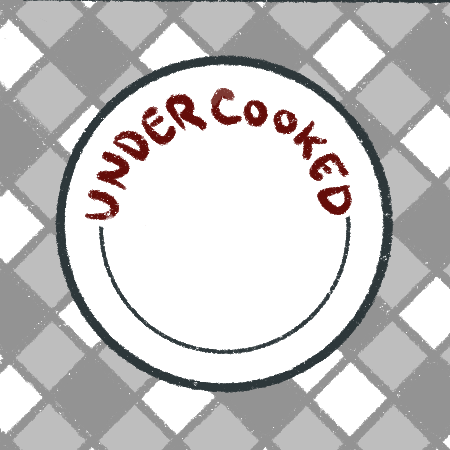
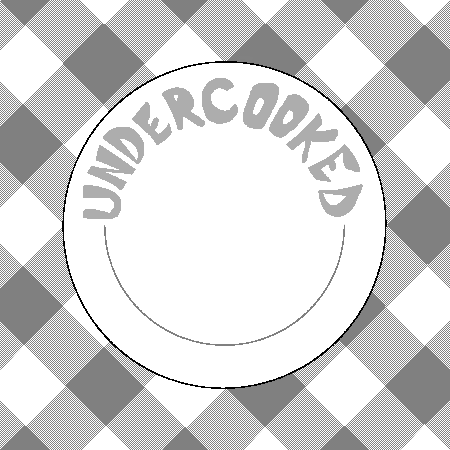
renewed assets

diff --git a/sketch.js b/sketch.js
@@ -8,15 +8,15 @@ let menuButton;
 let exitMenuButton;
 let returnToTitleButton;
 let selectFoodButton;
-let returnToHomePageButton;
+let restartTimerHomeButton;
 
-// let titleBeginButton, startTimerButton,increaseTimerButton, decreaseTimerButton, cancelTimerButton, menuButton, exitMenuButton, returnToTitleButton;
-
-// Timer Variables
-let timeSecond = 600; // Initial countdown time in seconds
-let lastTimeSecond = 600; // Store the last stated timer value
-let countdownActive = false; // Flag to track if the countdown is active
-let countdown; // Variable to store the interval ID
+// ----------------------------------- Timer Variables
+let timeSecond = 600;
+let lastTimeSecond = 600;
+let countdownActive = false;
+const interval = 1000;
+let cancelCountdown = false;
+let targetTime;
 
 // ----------------------------------- Pages
 let titlePage = true;
@@ -25,6 +25,13 @@ let menuPage = false;
 let runningPage = false;
 let endPage = false;
 let foodSelectionPage = false;
+
+// ----------------------------------- Background Image
+let titlePageBG;
+
+function preload() {
+  titlePageBG = loadImage('Media/titlePageBG.png');
+}
 
 // ----------------------------------- Setup
 
@@ -40,17 +47,22 @@ function setup() {
 // ----------------------------------- Draw
 
 function draw() {
-  background(220);
+  if (titlePage) {
+    background(220); // Clear the canvas with a default background color
+    image(titlePageBG, width / 2, height / 2); // Draw the image at the center of the canvas
+  } else {
+    background(220); // Default background for other pages
+  }
 
   if (homePage) {
-    displayTime(lastTimeSecond); // Display the last stated timer value on the home page
+    displayTime(lastTimeSecond);
   }
 
   if (runningPage) {
     if (!countdownActive) {
-      startCountdown(); // Start the countdown when entering the runningPage
+      startCountdown();
     }
-    displayTime(timeSecond); // Display the timer on the canvas
+    displayTime();
   }
 
   pageChanger();
@@ -59,11 +71,10 @@ function draw() {
 // ----------------------------------- Button Functions
 
 function createButtons() {
-
   // BEGIN
   titleBeginButton = createImg('Media/beginButtonImage.png', 'BeginButton');
-  titleBeginButton.position(100, 100);
-  titleBeginButton.size(250, 250);
+  titleBeginButton.position(185, 230);
+  titleBeginButton.size(75, 27);
   titleBeginButton.mouseClicked(() => {
     console.log("entered home page");
     titlePage = false;
@@ -71,24 +82,29 @@ function createButtons() {
   });
 
   // START TIMER
-  startTimerButton = createImg('Media/toast.png', 'StartTimer');
-  startTimerButton.position(160, 300);
-  startTimerButton.size(130, 130);
+  startTimerButton = createImg('Media/startTimerImage.png', 'StartTimer');
+  startTimerButton.position(190, 340);
+  startTimerButton.size(78, 27);
   startTimerButton.mouseClicked(() => {
     runningPage = true;
     homePage = false;
     timeSecond = lastTimeSecond; // Reset the timer to the last stated value
     countdownActive = false; // Reset the countdown flag
+    startCountdown(); // Start the countdown
     console.log(`Timer started with ${timeSecond} seconds`);
   });
 
   // DECREASE TIMER
-  decreaseTimerButton = createImg('Media/cereal.png', 'decreaseTimer');
-  decreaseTimerButton.position(105, 265);
-  decreaseTimerButton.size(70, 70);
+  decreaseTimerButton = createImg('Media/decreaseImage.png', 'decreaseTimer');
+  decreaseTimerButton.position(140, 287);
+  decreaseTimerButton.size(24, 24);
   decreaseTimerButton.mouseClicked(() => {
-    if (lastTimeSecond > 300) { // Ensure the timer doesn't go below 5 minutes
+    console.log("Decrease button clicked");
+    if (lastTimeSecond > 300) {
       lastTimeSecond = Math.max(300, lastTimeSecond - 5 * 60); // Decrease by 5 minutes
+      if (!countdownActive) {
+        timeSecond = lastTimeSecond; // Synchronize timeSecond if the countdown is not active
+      }
       console.log(`Timer decreased: ${lastTimeSecond} seconds`);
     } else {
       console.log("Timer cannot go below 5:00");
@@ -96,9 +112,9 @@ function createButtons() {
   });
 
   // INCREASE TIMER
-  increaseTimerButton = createImg('Media/cereal.png', 'increaseTimer');
-  increaseTimerButton.position(280, 265);
-  increaseTimerButton.size(70, 70);
+  increaseTimerButton = createImg('Media/increaseImage.png', 'increaseTimer');
+  increaseTimerButton.position(285, 287);
+  increaseTimerButton.size(24, 24);
   increaseTimerButton.mouseClicked(() => {
     if (!countdownActive) {
       timeSecond += 5 * 60; // Increase by 5 minutes
@@ -108,28 +124,31 @@ function createButtons() {
   });
 
   // CANCEL TIMER
-  cancelTimerButton = createImg('Media/cereal.png', 'cancelTimer');
-  cancelTimerButton.position(160, 300);
-  cancelTimerButton.size(130, 130);
+  cancelTimerButton = createImg('Media/cancelTimerImage.png', 'cancelTimer');
+  cancelTimerButton.position(190, 320);
+  cancelTimerButton.size(70, 50);
   cancelTimerButton.mouseClicked(() => {
     runningPage = false;
     homePage = true;
-    console.log("timer cancelled");
+    countdownActive = false; // Reset the countdown flag
+    cancelCountdown = true; // Stop the countdown loop
+    timeSecond = lastTimeSecond; // Reset the timer to the last stated value
+    console.log("Timer cancelled and reset");
   });
 
   // MENU BUTTONS
-  menuButton = createImg('Media/cereal.png', 'menu');
-  menuButton.position(10, 10);
-  menuButton.size(70, 70);
+  menuButton = createImg('Media/menuEnterButton.png', 'menu');
+  menuButton.position(15, 15);
+  menuButton.size(24, 24);
   menuButton.mouseClicked(() => {
     console.log("entered menu page");
     homePage = false;
     menuPage = true;
   });
 
-  exitMenuButton = createImg('Media/cereal.png', 'exitMenu');
-  exitMenuButton.position(10, 10);
-  exitMenuButton.size(70, 70);
+  exitMenuButton = createImg('Media/menuExitButton.png', 'exitMenu');
+  exitMenuButton.position(15, 15);
+  exitMenuButton.size(24, 24);
   exitMenuButton.mouseClicked(() => {
     console.log("exited menu page");
     homePage = true;
@@ -137,34 +156,33 @@ function createButtons() {
   });
 
   // MENU OPTION BUTTONS
-  returnToTitleButton = createImg('Media/toast.png', 'returnToTitle');
-  returnToTitleButton.position(100, 20);
-  returnToTitleButton.size(70, 70);
+  returnToTitleButton = createImg('Media/menusHome.png', 'returnToTitle');
+  returnToTitleButton.position(100, 40);
+  returnToTitleButton.size(70, 40);
   returnToTitleButton.mouseClicked(() => {
     console.log("entered title page");
     titlePage = true;
     menuPage = false;
   });
 
-  selectFoodButton = createImg('Media/toast.png', 'selectFood');
+  selectFoodButton = createImg('Media/menusFoods.png', 'selectFood');
   selectFoodButton.position(100, 90);
-  selectFoodButton.size(70, 70);
+  selectFoodButton.size(70, 40);
   selectFoodButton.mouseClicked(() => {
-    console.log("entered title page");
+    console.log("entered food selection page");
     menuPage = false;
     foodSelectionPage = true;
   });
 
   // END PAGE
-  returnToHomePageButton = createImg('Media/toast.png', 'postTimerReturnToHome');
-  returnToHomePageButton.position(160, 300);
-  returnToHomePageButton.size(130, 130);
-  returnToHomePageButton.mouseClicked(() => {
+  restartTimerHomeButton = createImg('Media/toast.png', 'postTimerReturnToHome');
+  restartTimerHomeButton.position(160, 300);
+  restartTimerHomeButton.size(130, 130);
+  restartTimerHomeButton.mouseClicked(() => {
     endPage = false;
     homePage = true;
     console.log("readying to start new timer");
   });
-
 }
 
 function hideAllButtons() {
@@ -177,7 +195,7 @@ function hideAllButtons() {
   exitMenuButton.hide();
   returnToTitleButton.hide();
   selectFoodButton.hide();
-  returnToHomePageButton.hide();
+  restartTimerHomeButton.hide();
 }
 
 // ----------------------------------- Page Changer
@@ -194,6 +212,11 @@ function pageChanger() {
     increaseTimerButton.show();
     decreaseTimerButton.show();
     menuButton.show();
+
+    // Display toast image in the center of the canvas
+    const toastImage = createImg('Media/toast1.png', 'ToastImage');
+    toastImage.position(width / 2 - 64, height / 2 - 64); // Center the image
+    toastImage.size(128, 128); // Set the size of the image
   }
 
   if (runningPage) {
@@ -207,9 +230,8 @@ function pageChanger() {
   }
 
   if (endPage) {
-    returnToHomePageButton.show();
+    restartTimerHomeButton.show();
   }
-
 }
 
 // ----------------------------------- Timer Functions
@@ -217,24 +239,38 @@ function pageChanger() {
 function startCountdown() {
   if (countdownActive) return; // Prevent multiple intervals
   countdownActive = true; // Set the countdown as active
+  cancelCountdown = false; // Ensure the countdown is not canceled
 
-  // Clear any existing interval to prevent overlapping
-  if (countdown) {
-    clearInterval(countdown);
-  }
-
-  countdown = setInterval(() => {
-    timeSecond--;
-    if (timeSecond <= 0) {
-      clearInterval(countdown); // Stop the timer when it reaches 0
-      endCount(); // Handle the end of the countdown
-    }
-  }, 1000);
+  targetTime = Date.now() + timeSecond * 1000; // Calculate the target end time
+  console.log(`Countdown started. Target time: ${new Date(targetTime).toLocaleTimeString()}`);
+  step(); // Start the countdown loop
 }
 
-function displayTime(second) {
-  const min = Math.floor(second / 60);
-  const sec = Math.floor(second % 60);
+function step() {
+  if (cancelCountdown) {
+    console.log("Countdown canceled");
+    cancelCountdown = false; // Reset the flag for future use
+    countdownActive = false; // Reset the countdown flag
+    return; // Stop further execution
+  }
+
+  const now = Date.now();
+  const remainingTime = Math.max(0, targetTime - now); // Ensure it doesn't go below 0
+  timeSecond = Math.ceil(remainingTime / 1000); // Convert to seconds
+
+  // Stop the timer if it reaches 0
+  if (timeSecond <= 0) {
+    endCount(); // Handle the end of the countdown
+    return; // Stop further execution
+  }
+
+  // Schedule the next step
+  setTimeout(step, interval);
+}
+
+function displayTime() {
+  const min = Math.floor(timeSecond / 60);
+  const sec = Math.floor(timeSecond % 60);
 
   // Display the timer on the canvas
   fill(0);
@@ -244,6 +280,7 @@ function displayTime(second) {
 function endCount() {
   runningPage = false; // Exit the runningPage
   endPage = true; // Transition to the endPage
+  countdownActive = false; // Reset the countdown flag
+  cancelCountdown = true; // Stop the countdown loop
   console.log("Time out");
-  clearInterval(countdown); // Ensure the interval is cleared
 }
